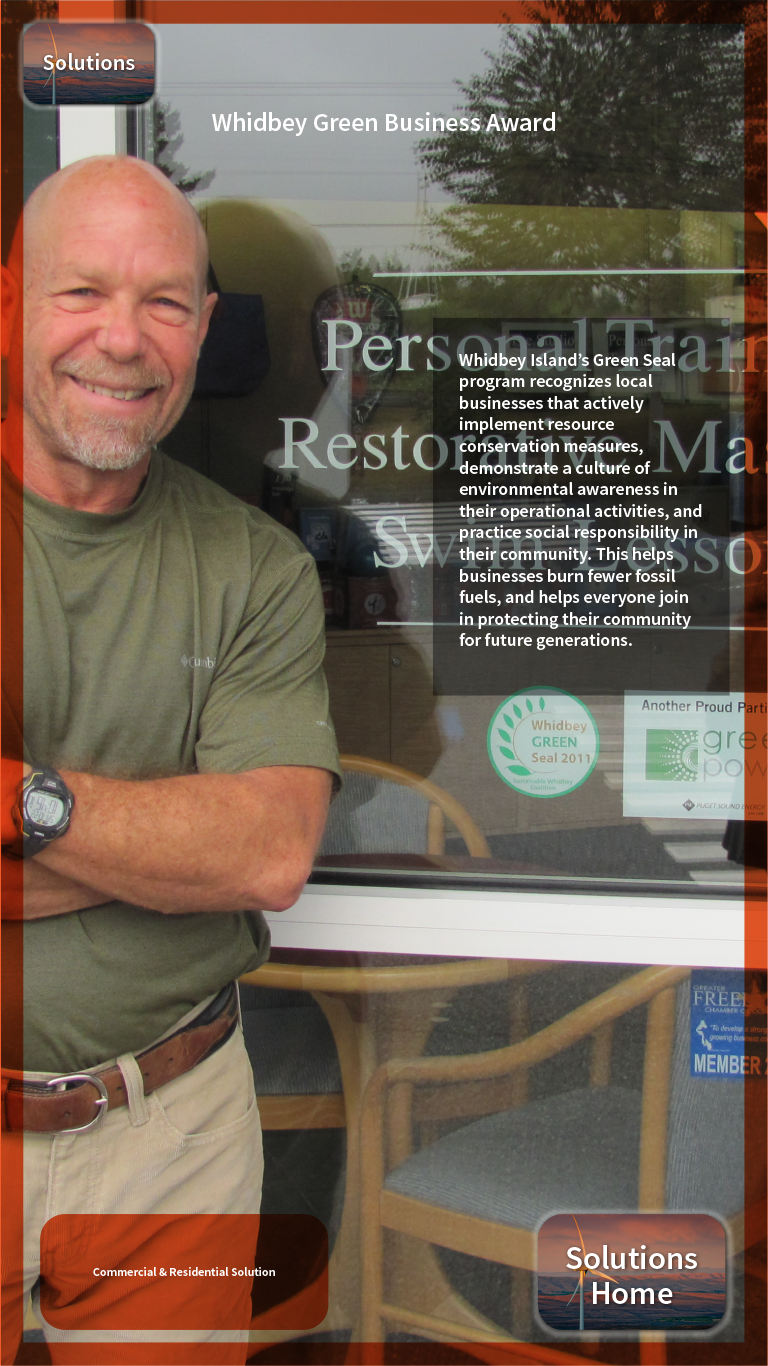
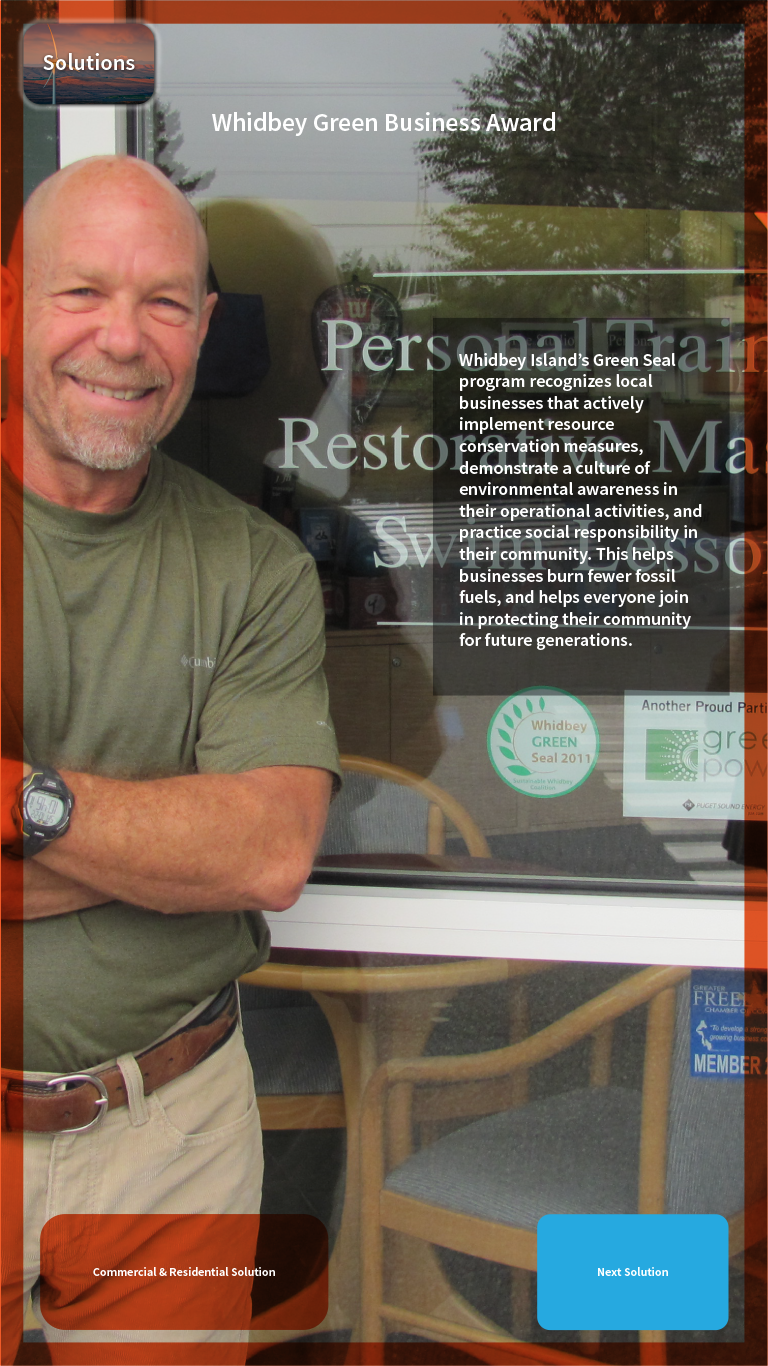
fix links

Changed region(s): [[0.6875, 0.8609, 0.9688, 0.9839]]

diff --git a/page17.html b/page17.html
@@ -18,7 +18,7 @@
             <img  id="content-image" src="/images/page17/bg.png" alt="" usemap="#map">
             <map name="map" id="map">
                 <area alt="" title="" href="/page2.html" shape="rect" coords="16,18,162,108">
-                <area alt="" title="" href="/page2.html" shape="rect" coords="533,1210,730,1335">
+                <area alt="" title="" href="/page8.html" shape="rect" coords="533,1210,730,1335">
             </map>
         </div>
     </body>
